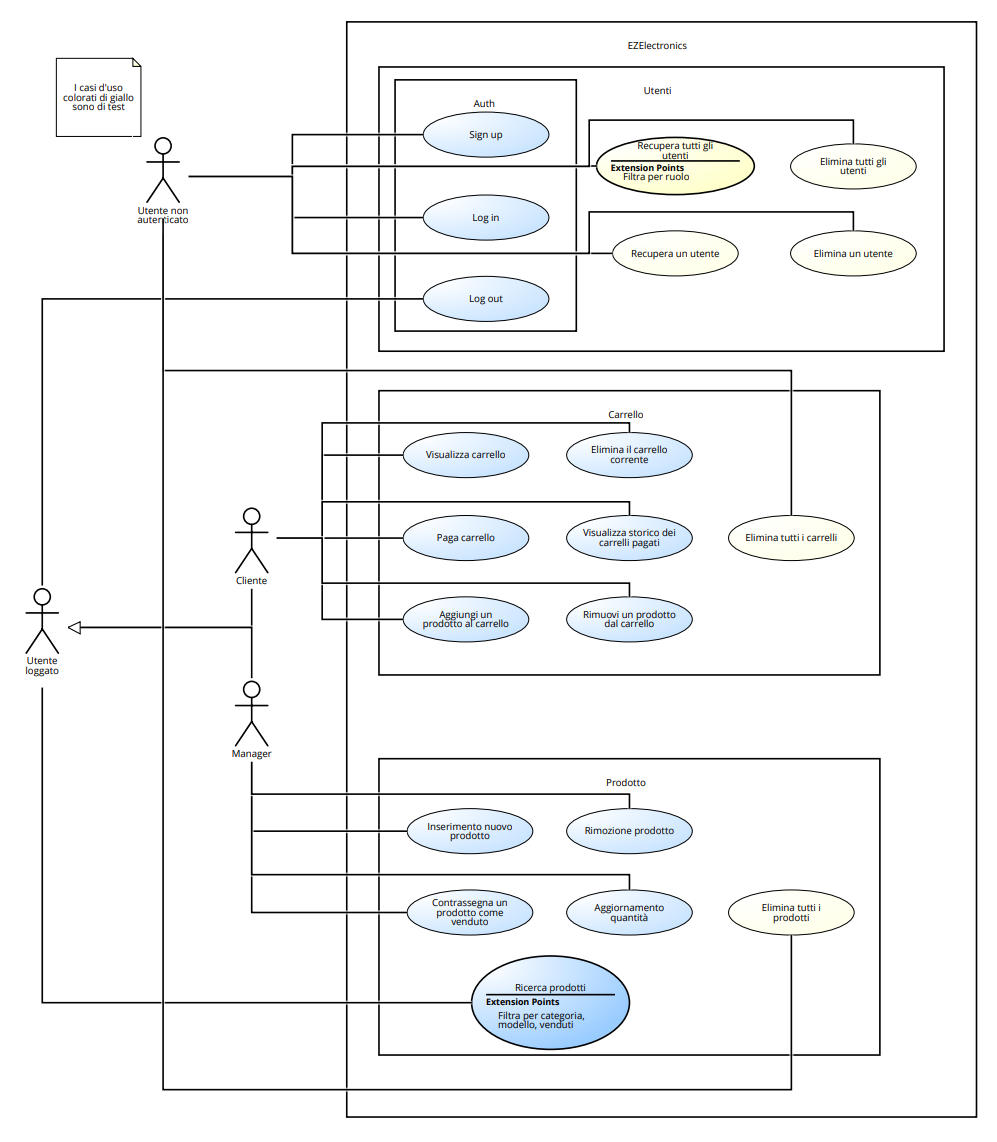
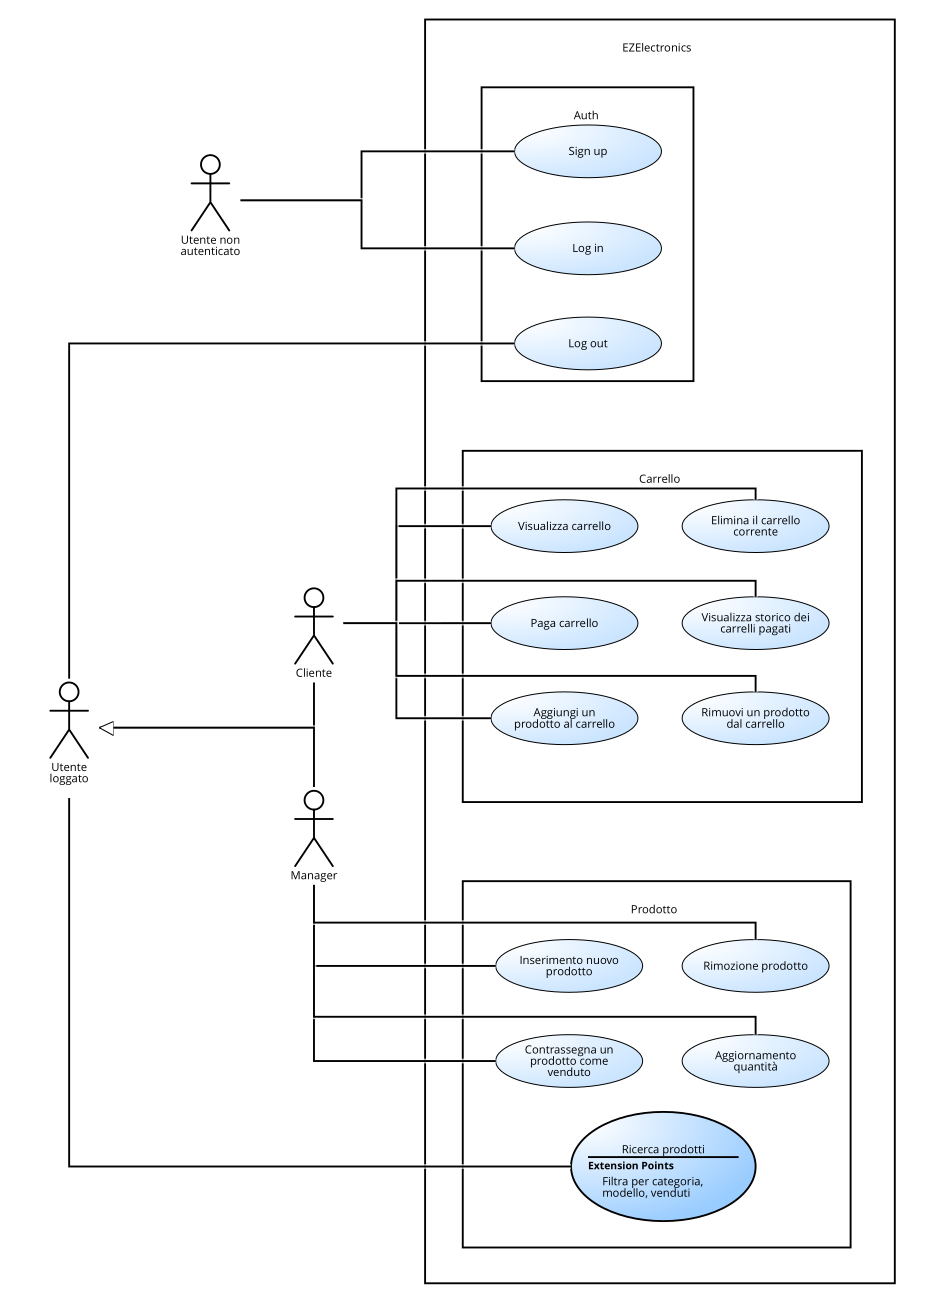
moved test FR

diff --git a/RequirementsDocumentV1.md b/RequirementsDocumentV1.md
@@ -88,13 +88,7 @@ EZElectronics (pronunciato EaSy Electronics) è un'applicazione software progett
 |                    &nbsp;&nbsp;&nbsp;&nbsp;&nbsp;&nbsp; FR1.2                    |                                                      Logout                                                       |
 |                                       FR2                                        |                                               Gestione degli utenti                                               |
 |                    &nbsp;&nbsp;&nbsp;&nbsp;&nbsp;&nbsp; FR2.1                    |                                              Creazione nuovo utente                                               |
-|                    &nbsp;&nbsp;&nbsp;&nbsp;&nbsp;&nbsp; FR2.2                    |                                                  Recupero utenti                                                  |
-| &nbsp;&nbsp;&nbsp;&nbsp;&nbsp;&nbsp;&nbsp;&nbsp;&nbsp;&nbsp;&nbsp;&nbsp; FR2.2.1 |                                        Recupero di tutti gli utenti (test)                                        |
-| &nbsp;&nbsp;&nbsp;&nbsp;&nbsp;&nbsp;&nbsp;&nbsp;&nbsp;&nbsp;&nbsp;&nbsp; FR2.2.2 |                                       Recupero utenti, dato un ruolo (test)                                       |
-| &nbsp;&nbsp;&nbsp;&nbsp;&nbsp;&nbsp;&nbsp;&nbsp;&nbsp;&nbsp;&nbsp;&nbsp; FR2.2.3 |                                     Recupero utente, dato lo username (test)                                      |
-|                    &nbsp;&nbsp;&nbsp;&nbsp;&nbsp;&nbsp; FR2.3                    |                                                Eliminazione utenti                                                |
-| &nbsp;&nbsp;&nbsp;&nbsp;&nbsp;&nbsp;&nbsp;&nbsp;&nbsp;&nbsp;&nbsp;&nbsp; FR2.3.1 |                                   Eliminazione utente, dato lo username (test)                                    |
-| &nbsp;&nbsp;&nbsp;&nbsp;&nbsp;&nbsp;&nbsp;&nbsp;&nbsp;&nbsp;&nbsp;&nbsp; FR2.3.2 |                                      Eliminazione di tutti gli utenti (test)                                      |
+|                    &nbsp;&nbsp;&nbsp;&nbsp;&nbsp;&nbsp; FR2.2                    |                                            Recupero l' utente loggato                                             |
 |                                       FR3                                        |                                               Gestione dei prodotti                                               |
 |                    &nbsp;&nbsp;&nbsp;&nbsp;&nbsp;&nbsp; FR3.1                    |                                             Creazione nuovo prodotto                                              |
 |                    &nbsp;&nbsp;&nbsp;&nbsp;&nbsp;&nbsp; FR3.2                    |                        Registrazione arrivo di un insieme di prodotti dello stesso modello                        |
@@ -106,7 +100,6 @@ EZElectronics (pronunciato EaSy Electronics) è un'applicazione software progett
 | &nbsp;&nbsp;&nbsp;&nbsp;&nbsp;&nbsp;&nbsp;&nbsp;&nbsp;&nbsp;&nbsp;&nbsp; FR3.4.4 |                            Recupero di tutti i prodotti, eventualmente solo se venduti                            |
 |                    &nbsp;&nbsp;&nbsp;&nbsp;&nbsp;&nbsp; FR3.5                    |                                               Eliminazione prodotti                                               |
 | &nbsp;&nbsp;&nbsp;&nbsp;&nbsp;&nbsp;&nbsp;&nbsp;&nbsp;&nbsp;&nbsp;&nbsp; FR3.5.1 |                                  Eliminazione di un prodotto, dato il suo codice                                  |
-| &nbsp;&nbsp;&nbsp;&nbsp;&nbsp;&nbsp;&nbsp;&nbsp;&nbsp;&nbsp;&nbsp;&nbsp; FR3.5.2 |                                      Eliminazione di tutti i prodotti (test)                                      |
 |                                       FR4                                        |                                               Gestione dei carrelli                                               |
 |                    &nbsp;&nbsp;&nbsp;&nbsp;&nbsp;&nbsp; FR4.1                    |                                       Recupero carrello dell'utente loggato                                       |
 |                    &nbsp;&nbsp;&nbsp;&nbsp;&nbsp;&nbsp; FR4.2                    |                              Aggiunta di un prodotto al carrello dell'utente loggato                              |
@@ -115,7 +108,20 @@ EZElectronics (pronunciato EaSy Electronics) è un'applicazione software progett
 |                    &nbsp;&nbsp;&nbsp;&nbsp;&nbsp;&nbsp; FR4.5                    |                                               Eliminazione carrelli                                               |
 | &nbsp;&nbsp;&nbsp;&nbsp;&nbsp;&nbsp;&nbsp;&nbsp;&nbsp;&nbsp;&nbsp;&nbsp; FR4.5.1 |                  Eliminazione di un prodotto dal carrello corrente, dato il codice del prodotto                   |
 | &nbsp;&nbsp;&nbsp;&nbsp;&nbsp;&nbsp;&nbsp;&nbsp;&nbsp;&nbsp;&nbsp;&nbsp; FR4.5.2 |                              Eliminazione del carrello corrente dell'utente loggato                               |
-| &nbsp;&nbsp;&nbsp;&nbsp;&nbsp;&nbsp;&nbsp;&nbsp;&nbsp;&nbsp;&nbsp;&nbsp; FR4.5.3 |                                      Eliminazione di tutti i carrelli (test)                                      |
+
+### Requisiti di test
+
+Tutti i requisiti in questa sezione fanno riferimento a funzionalità utilizzate unicamente per test e che non hanno corrispettivo nei casi d'uso e nelle interfacce
+
+|  ID  |              Descrizione              |
+| :--: | :-----------------------------------: |
+| TFR1 |     Recupero di tutti gli utenti      |
+| TFR2 |    Recupero utenti, dato un ruolo     |
+| TFR3 |   Recupero utente, dato lo username   |
+| TFR4 | Eliminazione utente, dato lo username |
+| TFR5 |   Eliminazione di tutti gli utenti    |
+| TFR6 |   Eliminazione di tutti i prodotti    |
+| TFR7 |   Eliminazione di tutti i carrelli    |
 
 ## Requisiti non funzionali
 
